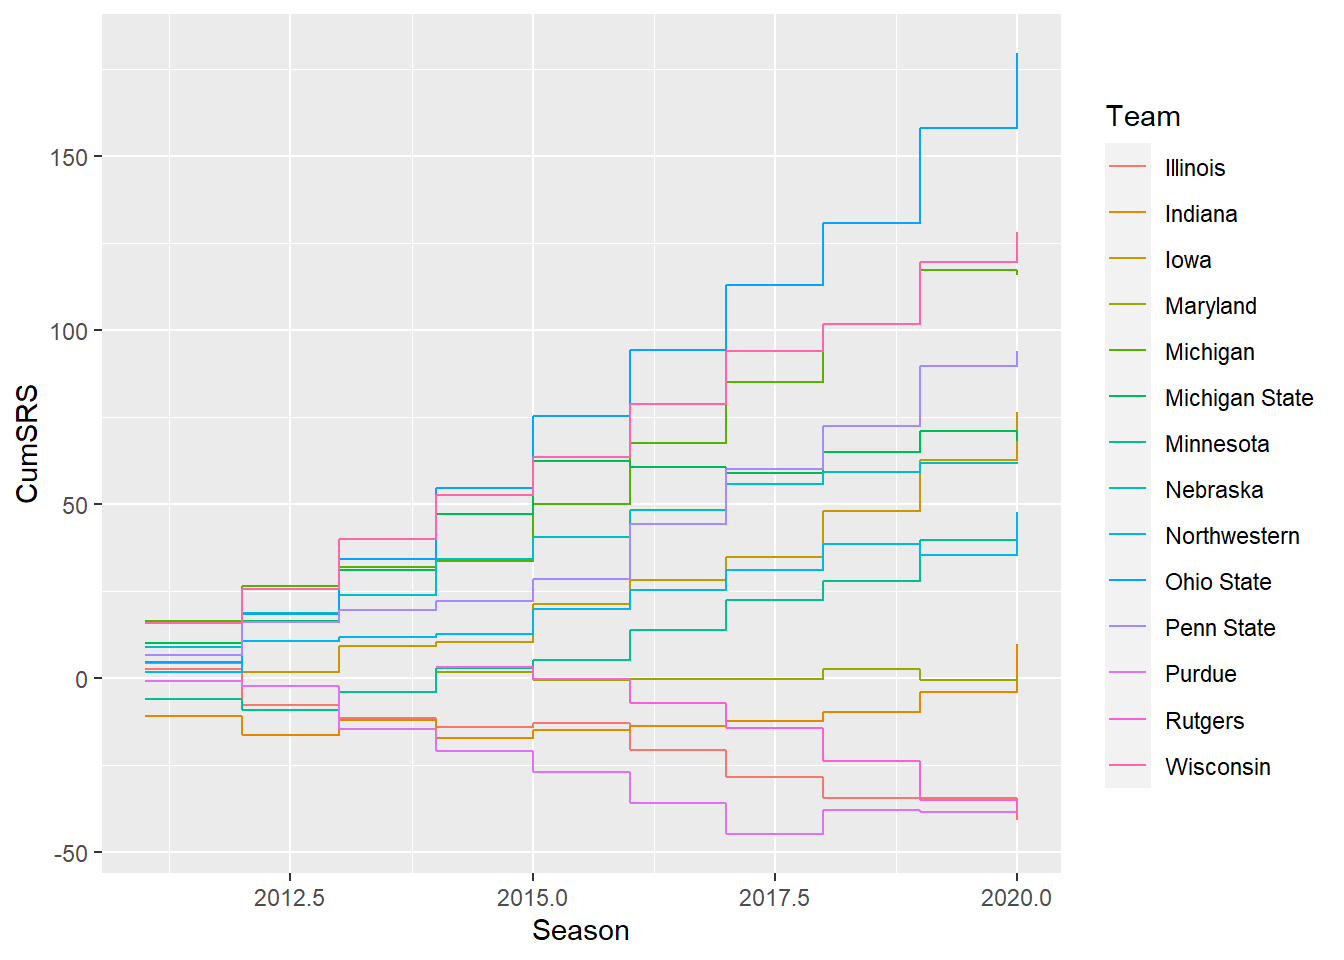
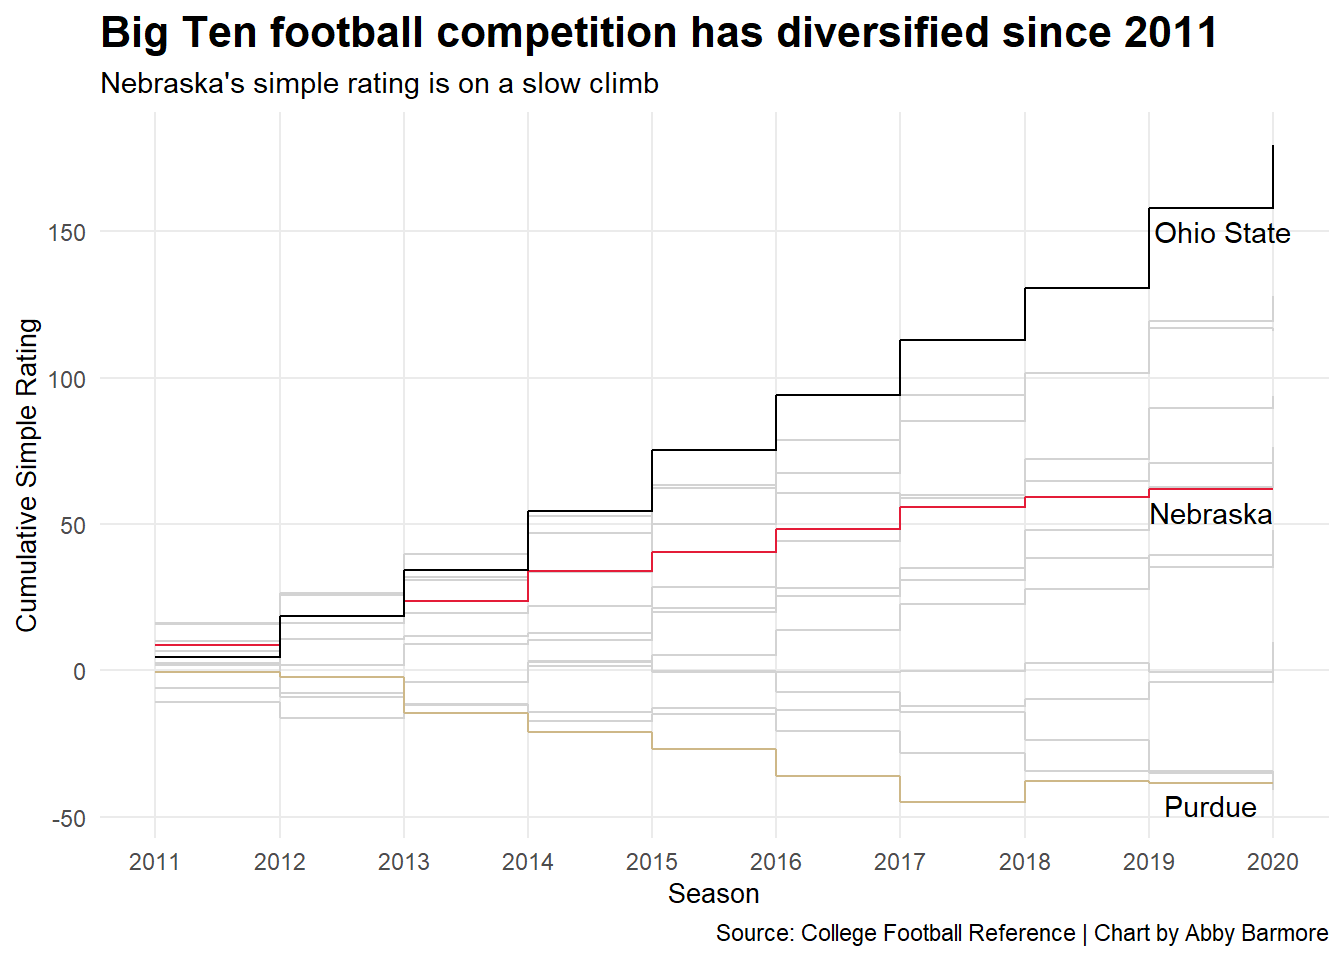
Project 1 final update/draft

diff --git a/2021/04/02/is-big-ten-football-more-competitive-in-the-scott-frost-era/index.html b/2021/04/02/is-big-ten-football-more-competitive-in-the-scott-frost-era/index.html
@@ -62,7 +62,7 @@
 
   <article class="article">
     
-    <span class="article-duration">4 min read</span>
+    <span class="article-duration">7 min read</span>
     
 
     <h1 class="article-title">Is Big Ten football more competitive in the Scott Frost era?</h1>
@@ -76,9 +76,9 @@
 <script src="/2021/04/02/is-big-ten-football-more-competitive-in-the-scott-frost-era/index_files/header-attrs/header-attrs.js"></script>
 
 
-<p>Is Big Ten football, in general, more competitive in the Scott Frost Era?</p>
-<p>Since Nebraska joined the Big Ten in 2011, Bo Pelini is the only Husker head coach to win 10 or more games in a season and the only coach to win nine games in a season multiple times. When Pelini was fired after the 2014 season, ending his seven-season reign, Mike Riley was hired and went 19-19 in three seasons. NU brought in home-grown Husker, coach Scott Frost once it split ways with Riley in 2017. Frost’s team went 4-8 in his first season followed by a 5-7 record in 2019 and a 3-5 record in 2020.</p>
-<p>The Big Ten football landscape has change tremendously since 2011. How competitive was the Big Ten when Pelini was winning games this century? Riley? Frost? Was the league less competitive in the early 2010s than it is now? Essentially, is it harder for Frost to win games in this Big Ten climate compared the conference of the coaches before him?</p>
+<p>Is Big Ten football more competitive in the Scott Frost Era than the Bo Pelini Era?</p>
+<p>Since Nebraska joined the Big Ten in 2011, Pelini is the only Husker head coach to win 10 or more games in a season and the only coach to win nine games in a season multiple times. When Pelini’s seven-season reign was ended after the 2014 season, Mike Riley was hired and went 19-19 in three seasons. NU brought in home-grown Husker, coach Scott Frost, once it parted ways with Riley in 2017. Frost’s team went 4-8 in his first season followed by a 5-7 record in 2019 and a 3-5 record in 2020.</p>
+<p>The Big Ten football landscape has changed tremendously since 2011. How competitive was the Big Ten when Pelini was winning games this century? Riley? Frost? Was the league less competitive in the early 2010s than it is now? Essentially, is it harder for Frost to win games in this Big Ten climate compared the conference of the coaches before him?</p>
 <p>Let’s find out.</p>
 <pre class="r"><code>library(tidyverse)</code></pre>
 <pre><code>## -- Attaching packages --------------------------------------- tidyverse 1.3.0 --</code></pre>
@@ -91,7 +91,16 @@
 ## x dplyr::lag()    masks stats::lag()</code></pre>
 <pre class="r"><code>library(ggrepel)</code></pre>
 <pre><code>## Warning: package &#39;ggrepel&#39; was built under R version 4.0.4</code></pre>
-<pre class="r"><code>football &lt;- read_csv(&#39;BigTenfootball2011-2020.csv&#39;)</code></pre>
+<pre class="r"><code>library(ggalt)</code></pre>
+<pre><code>## Warning: package &#39;ggalt&#39; was built under R version 4.0.4</code></pre>
+<pre><code>## Registered S3 methods overwritten by &#39;ggalt&#39;:
+##   method                  from   
+##   grid.draw.absoluteGrob  ggplot2
+##   grobHeight.absoluteGrob ggplot2
+##   grobWidth.absoluteGrob  ggplot2
+##   grobX.absoluteGrob      ggplot2
+##   grobY.absoluteGrob      ggplot2</code></pre>
+<pre class="r"><code>teamindividual &lt;- read_csv(&#39;BigTenfootball2011-2020.csv&#39;)</code></pre>
 <pre><code>## 
 ## -- Column specification --------------------------------------------------------
 ## cols(
@@ -111,38 +120,6 @@
 ##   `AP Rank` = col_double(),
 ##   Season = col_double()
 ## )</code></pre>
-<pre class="r"><code>BigTenindividual &lt;- football %&gt;% 
-  group_by(Team) %&gt;% 
-  mutate(CumSRS = cumsum(SRS))</code></pre>
-<pre class="r"><code>ggplot() + geom_step(data=BigTenindividual, aes(x=Season, y=CumSRS, group=Team, color=Team))</code></pre>
-<p><img src="/2021/04/02/is-big-ten-football-more-competitive-in-the-scott-frost-era/index_files/figure-html/unnamed-chunk-4-1.png" width="672" /></p>
-<pre class="r"><code>nu &lt;- BigTenindividual %&gt;% filter(Team == &quot;Nebraska&quot;) %&gt;% mutate(TeamYear = paste(Team, Season, sep=&quot; &quot;))
-osu &lt;- BigTenindividual %&gt;% filter(Team == &#39;Ohio State&#39;)
-up &lt;- BigTenindividual %&gt;% filter(Team == &#39;Purdue&#39;)</code></pre>
-<ul>
-<li>add to chart: better titles</li>
-</ul>
-<p>consider shrinking x and y axis labels to draw attention to team names</p>
-<p>why did I highlight Ohio State and Purdue (best and worst) consider Iowa and/or Wisconsin because NU is more similar and compared to them often.</p>
-<pre class="r"><code>ggplot() + 
-  geom_step(data=BigTenindividual, aes(x=Season, y=CumSRS, group=Team), color=&quot;light grey&quot;) +
-  geom_step(data=nu, aes(x=Season, y=CumSRS, group=Team), color=&quot;#E41C38&quot;) +
-  geom_step(data=osu, aes(x=Season, y=CumSRS, group=Team), color=&quot;black&quot;) +
-  geom_step(data=up, aes(x=Season, y=CumSRS, group=Team), color=&quot;#CEB888&quot;) +
-  geom_text(aes(x=2019.7, y=53, label=&quot;Nebraska&quot;)) +
-  geom_text(aes(x=2019.8, y=150, label=&quot;Ohio State&quot;)) +
-  geom_text(aes(x=2019.5, y=-50, label=&quot;Purdue&quot;)) +
-  labs(
-    x=&quot;Season&quot;, 
-    y=&quot;SRS&quot;, 
-    title=&quot;Big Ten&#39;s competition has progressively diversified each season&quot;, 
-    subtitle=&quot;Nebraska is on a slow climb&quot;, 
-    caption=&quot;Source: College Football Reference | Chart by Abby Barmore&quot;) +
-  theme_minimal() +
-scale_x_continuous(breaks = c(2011, 2012, 2013, 2014, 2015, 2016, 2017, 2018, 2019, 2020))</code></pre>
-<p><img src="/2021/04/02/is-big-ten-football-more-competitive-in-the-scott-frost-era/index_files/figure-html/unnamed-chunk-6-1.png" width="672" /></p>
-<p>CHART 2 - LINE CHART</p>
-<p>I will show where Nebraska aligns with the rest of the Big Ten average for each season with a line chart</p>
 <pre class="r"><code>yearavg &lt;- read_csv(&#39;BigTenYear.csv&#39;)</code></pre>
 <pre><code>## 
 ## -- Column specification --------------------------------------------------------
@@ -163,21 +140,91 @@ scale_x_continuous(breaks = c(2011, 2012, 2013, 2014, 2015, 2016, 2017, 2018, 20
 ##   AP = col_double(),
 ##   Champion = col_character()
 ## )</code></pre>
-<pre class="r"><code>ggplot() + geom_line(data=football, aes(x=Season, y=SRS, group=Team), color=&#39;grey&#39;) +
+<p>The two data sets I will be working with show each Big Ten team’s statistics for every season since 2011 from Sports Reference’s college football site. The other set has the average metrics for the conference as a whole. For both I will mostly be using Simple Rating System (SRS), the Strength of Schedule (SOS) and how many conference games each team won.</p>
+<p>First, I’m creating a new data frame to group each team by its cumulative simple rating sum.</p>
+<pre class="r"><code>teamseason &lt;- teamindividual %&gt;% 
+  group_by(Team) %&gt;% 
+  mutate(CumSRS = cumsum(SRS))</code></pre>
+<p>I’m interested in looking at the progression of each Big Ten teams’ simple rating for each season to see how the competition in the conference has changed over the decade. Who are the best and worst teams throughout the decade and how has Nebraska advanced since each head coach was at the reins?</p>
+<pre class="r"><code>nu &lt;- teamseason %&gt;% filter(Team == &quot;Nebraska&quot;) %&gt;% mutate(TeamYear = paste(Team, Season, sep=&quot; &quot;))
+osu &lt;- teamseason %&gt;% filter(Team == &#39;Ohio State&#39;)
+up &lt;- teamseason %&gt;% filter(Team == &#39;Purdue&#39;)</code></pre>
+<p>I want to highlight the Huskers, Ohio State because its consistently the best team in the league and the worst team of the decade, Purdue. The chart will show each teams simple rating score during each season since 2011.</p>
+<pre class="r"><code>ggplot() + 
+  geom_step(data=teamseason, aes(x=Season, y=CumSRS, group=Team), color=&quot;light grey&quot;) +
+  geom_step(data=nu, aes(x=Season, y=CumSRS, group=Team), color=&quot;#E41C38&quot;) +
+  geom_step(data=osu, aes(x=Season, y=CumSRS, group=Team), color=&quot;black&quot;) +
+  geom_step(data=up, aes(x=Season, y=CumSRS, group=Team), color=&quot;#CEB888&quot;) +
+  geom_text(aes(x=2019.5, y=54, label=&quot;Nebraska&quot;)) +
+  geom_text(aes(x=2019.6, y=150, label=&quot;Ohio State&quot;)) +
+  geom_text(aes(x=2019.5, y=-46, label=&quot;Purdue&quot;)) +
+  labs(
+    x=&quot;Season&quot;, 
+    y=&quot;Cumulative Simple Rating&quot;, 
+    title=&quot;Big Ten football competition has diversified since 2011&quot;, 
+    subtitle=&quot;Nebraska&#39;s simple rating is on a slow climb&quot;, 
+    caption=&quot;Source: College Football Reference | Chart by Abby Barmore&quot;) +
+  theme_minimal() +
+  theme(
+    plot.title = element_text(size = 16, face = &quot;bold&quot;),
+    axis.title = element_text(size = 10), 
+    plot.subtitle = element_text(size=11), 
+    panel.grid.minor = element_blank()) +
   scale_x_continuous(breaks = c(2011, 2012, 2013, 2014, 2015, 2016, 2017, 2018, 2019, 2020))</code></pre>
-<p><img src="/2021/04/02/is-big-ten-football-more-competitive-in-the-scott-frost-era/index_files/figure-html/unnamed-chunk-8-1.png" width="672" /></p>
-<pre class="r"><code>ggplot() + geom_line(data=BigTenindividual, aes(x=Season, y=SRS, group=Team), color=&#39;grey&#39;) +
+<p><img src="/2021/04/02/is-big-ten-football-more-competitive-in-the-scott-frost-era/index_files/figure-html/unnamed-chunk-4-1.png" width="672" /></p>
+<p>Right away, we notice that team’s cumulative simple ratings were very similar in 2011 but the good and the bad teams continued to get better and better at what they do best. For Ohio State, that is winning and for Purdue that is losing games. NU’s cumulative simple rating has improved each season but only slightly in the Frost Era. Based on this rating, it seems that Pelini’s teams improved the most from season to season compared to Riley’s and Frost’s.</p>
+<p>Now we know how the Big Ten’s competitiveness has changed since Nebraska joined. How competitive was the Big Ten when Nebraska was winning 9-10 games with Pelini versus when Riley and Frost were/are struggling to break even? For this, I am going to create a line chart to highlight and compare Nebraska’s simple rating with the average Big Ten rating from the yearavg data frame.</p>
+<pre class="r"><code>ggplot() + 
+  geom_line(data=teamindividual, aes(x=Season, y=SRS, group=Team), color=&#39;grey&#39;) +
   geom_line(data=nu, aes(x=Season, y=SRS, group=Team), color=&#39;#E41C38&#39;) +
   geom_line(data=yearavg, aes(x=Year, y=SRS, group=Conference), color=&#39;black&#39;) +
+  geom_text(aes(x=2018.5, y=2, label=&quot;Nebraska&quot;)) +
+  geom_text(aes(x=2017, y=11, label=&quot;Big Ten&quot;)) +
+  labs(
+    x=&quot;Season&quot;, 
+    y=&quot;Simple rating&quot;, 
+    title=&quot;Scott Frost&#39;s Big Ten is more competitive than Bo Pelini&#39;s&quot;, 
+    subtitle=&quot;Nebraska was performing above the average simple rating until 2017.&quot;, 
+    caption=&quot;Source: College Football Reference | Chart by Abby Barmore&quot;) +
   theme_minimal() +
+  theme(
+    plot.title = element_text(size = 16, face = &quot;bold&quot;),
+    axis.title = element_text(size = 10), 
+    plot.subtitle = element_text(size=11), 
+    panel.grid.minor = element_blank()
+    ) +
   scale_x_continuous(breaks = c(2011, 2012, 2013, 2014, 2015, 2016, 2017, 2018, 2019, 2020))</code></pre>
-<p><img src="/2021/04/02/is-big-ten-football-more-competitive-in-the-scott-frost-era/index_files/figure-html/unnamed-chunk-9-1.png" width="672" /></p>
-<p>Chart 3: I will show how each of Nebraska’s football teams have performed (W/L) compared to the Big Ten competition level during that season with a bubble chart. The x-axis will be the season years, the y-axis will be SRS of the Big Ten and the bubbles will be W/L for Nebraska.</p>
-<pre class="r"><code>ggplot() + geom_point(data=BigTenindividual, aes(x=SRS, y=SOS, size=ConW), color=&#39;grey&#39;) +
+<p><img src="/2021/04/02/is-big-ten-football-more-competitive-in-the-scott-frost-era/index_files/figure-html/unnamed-chunk-5-1.png" width="672" /></p>
+<p>The Big Ten average is much higher in 2017-2020 seasons compared to when Pelini was coaching NU in the Big Ten from 2011-2014. The 2012 season is Nebraska’s most successful season this decade based on their record (10-4 and 7-1 in the Big Ten) and the second highest simple rating (behind 2014) since the Huskers joined the conference. Pelini’s most successful season was also the Big Ten’s least competitive season this decade.</p>
+<p>While NU played below the Big Ten’s average in the 2017-2020 seasons starting with Riley in 2017, the 2017 season’s competition was about four points better than in 2012. Frost’s teams have a tougher Big Ten to compete in but are playing far below the simple rating average for the conference.</p>
+<p>How much of the Big Ten’s competitive level effects NU’s win/loss record? In other words, how many conference games is NU winning based on how tough their competition is?</p>
+<p>I will show how each of Nebraska’s football teams have performed based on conference wins compared to the Big Ten competition level (SRS) and strength of schedule (SOS) during an individual season with a bubble chart.</p>
+<pre class="r"><code>Frostseasons &lt;- nu %&gt;% filter(Season == &#39;2018&#39; | Season == &#39;2019&#39; | Season == &#39;2020&#39;)</code></pre>
+<p>First, I created a new data frame with only Frost’s season in it to bring attention to them by using geom_encircle. Nebraska’s bubbles are highlighted and the year is included to provide perspective on which team/coach was at the helm.</p>
+<pre class="r"><code>ggplot() + 
+  geom_point(data=teamindividual, aes(x=SRS, y=SOS, size=ConW), color=&#39;grey&#39;) +
   geom_point(data=nu, aes(x=SRS, y=SOS, size=ConW, color=&#39;Nebraska&#39;)) +
   geom_text_repel(data=nu, aes(x=SRS, y=SOS, label=Season)) +
-  theme_minimal()</code></pre>
-<p><img src="/2021/04/02/is-big-ten-football-more-competitive-in-the-scott-frost-era/index_files/figure-html/unnamed-chunk-10-1.png" width="672" /></p>
+  geom_encircle(data=Frostseasons, aes(x=SRS, y=SOS), s_shape=.05, expand=.04, colour=&quot;#E41C38&quot;) +
+  labs(
+    x=&quot;Simple Rating&quot;, 
+    y=&quot;Strength of Schedule&quot;, 
+    title=&quot;Scott Frost&#39;s three seasons have among the hardest schedules \nin the decade&quot;, 
+    subtitle=&quot;Under Frost, the Huskers had average simple ratings but also had the toughest schedules.&quot;, 
+    caption=&quot;Source: College Football Reference | Chart by Abby Barmore&quot;) +
+  theme_minimal() +
+  theme(
+    plot.title = element_text(size = 16, face = &quot;bold&quot;),
+    axis.title = element_text(size = 9), 
+    plot.subtitle = element_text(size=11), 
+    panel.grid.minor = element_blank()) +
+  scale_size(range = c(0, 8), name=&quot;Conf. Wins&quot;, breaks=c(0,2,4,6,8)) +   
+  scale_color_manual(values=c(&quot;#E41C38&quot;))</code></pre>
+<p><img src="/2021/04/02/is-big-ten-football-more-competitive-in-the-scott-frost-era/index_files/figure-html/unnamed-chunk-7-1.png" width="672" /></p>
+<p>As we can see, Frost was dealt three of the four hardest schedules in Nebraska football this decade but his teams performed averagely. Pelini’s teams had higher simple ratings than Frost’s and Riley’s but easier schedules.</p>
+<p>The 2012 season had the third highest strength of schedule and had the second highest simple rating after 2014 which had an easier schedule.</p>
+<p>While Frost’s teams aren’t playing and/or winning at the same level Pelini’s were, the Big Ten Conference is more competitive now than it was during Pelini’s time at NU. Frost has had much more difficult schedules because the competition is stronger and better overall.</p>
+<p>Frost has a harder conference than Pelini did and Nebraska will have to battle harder to become a 9+ win team in the Big Ten Conference of today.</p>
 
     </div>
   </article>
@@ -214,6 +261,9 @@ scale_x_continuous(breaks = c(2011, 2012, 2013, 2014, 2015, 2016, 2017, 2018, 20
 
 
     
+<script src="/js/math-code.js"></script>
+<script async src="//cdnjs.cloudflare.com/ajax/libs/mathjax/2.7.5/MathJax.js?config=TeX-MML-AM_CHTML"></script>
+
 
     
   </body>
